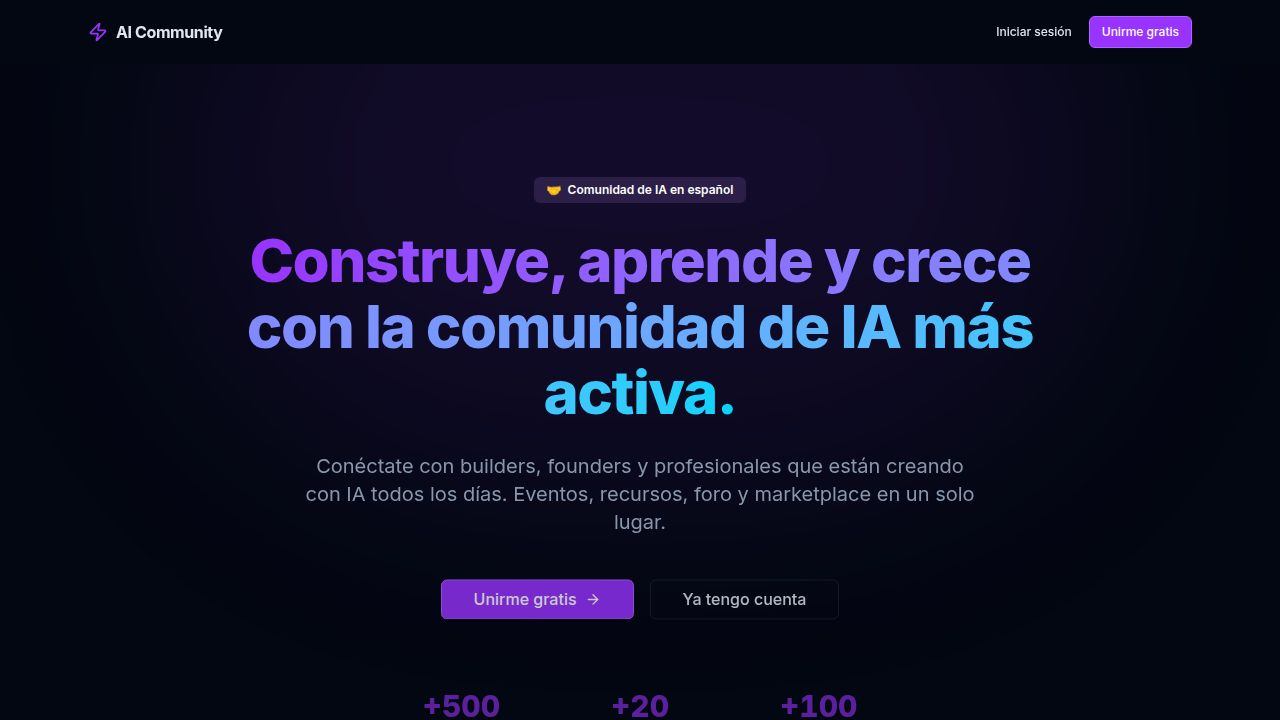
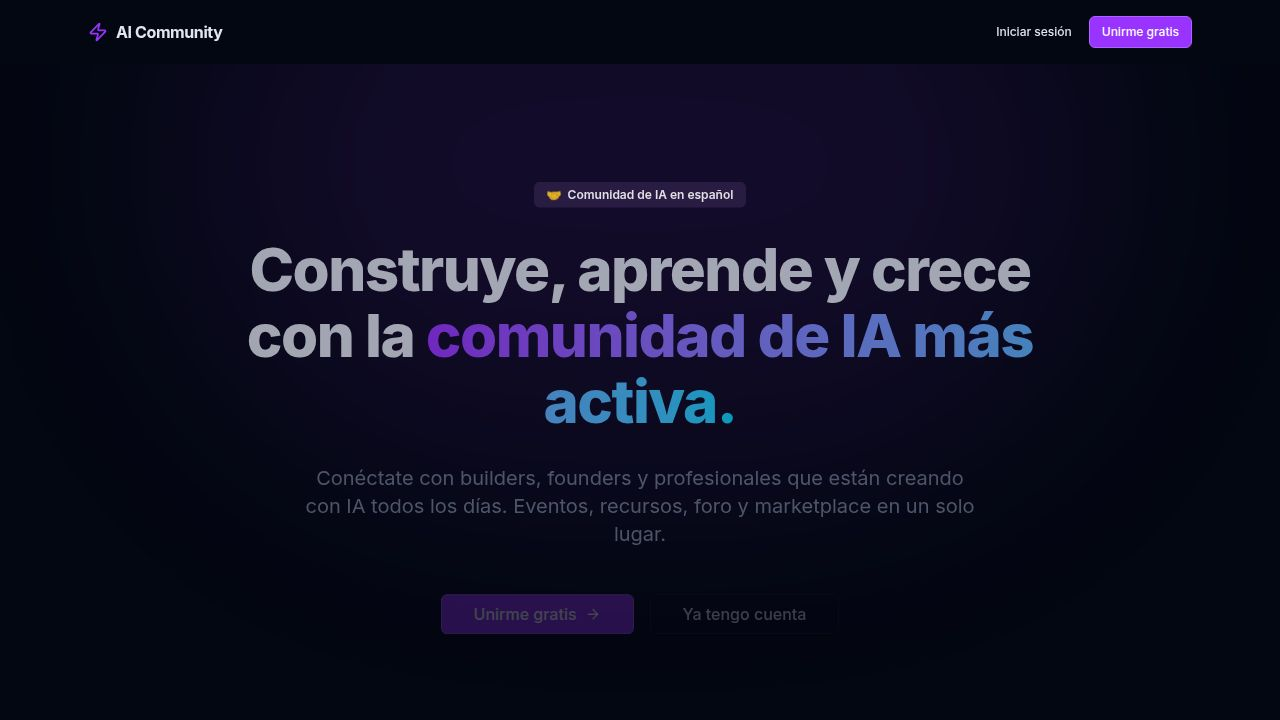
feat: live role-update via SSE so admins see sidebar change without logout
## Task
Implement live role-update so admins see the sidebar change without logging out.
When an admin promotes or demotes a user via /admin/users, the target user's
sidebar "Admin" item now appears/disappears immediately without a page reload
or logout.

## Implementation

### Server (artifacts/api-server/src/routes/admin.ts)
- Imported `sseClients` from `./notifications` (the existing SSE connection registry)
- Added `emitRoleChanged(clerkUserId, role)` helper that looks up any open SSE
  connections for that Clerk user ID and writes a `role_changed` SSE event with
  `{ role }` as the JSON payload
- Called `emitRoleChanged` at the end of both PATCH and PUT `/admin/users/:userId/role`
  handlers (after DB update + best-effort Clerk metadata update)

### Server (artifacts/api-server/src/routes/users.ts) — security fix
- Removed the automatic Clerk JWT → DB role sync for existing users in GET /users/me
- Previously: if clerkRole in JWT differed from DB role, the DB was overwritten —
  stale browser sessions would revert admin-managed role changes on the next refetch
- Now: DB is authoritative for existing users. Only new user creation seeds the role
  from Clerk JWT claims. Role changes go through the admin API which updates the DB
  first, then attempts to sync Clerk public metadata (best-effort; Clerk failures are
  logged but do not roll back the DB update)

### Client (artifacts/web/src/components/layout.tsx)
- Imported `getGetMeQueryKey` from `@user/api-client-react`
[…]

diff --git a/artifacts/api-server/src/routes/admin.ts b/artifacts/api-server/src/routes/admin.ts
@@ -14,6 +14,7 @@ import {
 } from "@workspace/db";
 import { requireAuth, requireAdmin } from "../lib/requireAuth";
 import { notify } from "../lib/notify";
+import { sseClients } from "./notifications";
 import { randomUUID } from "crypto";
 
 const router = Router();
@@ -115,6 +116,16 @@ router.get("/admin/users", requireAdmin, async (req, res) => {
   res.json({ users: page, nextCursor, total: page.length });
 });
 
+function emitRoleChanged(clerkUserId: string, role: string) {
+  const clients = sseClients.get(clerkUserId);
+  if (clients) {
+    const payload = JSON.stringify({ role });
+    for (const client of clients) {
+      client.write(`event: role_changed\ndata: ${payload}\n\n`);
+    }
+  }
+}
+
 // PATCH /admin/users/:id/role — update DB + Clerk publicMetadata
 router.patch("/admin/users/:userId/role", requireAdmin, async (req, res) => {
   const userId = req.params.userId as string;
@@ -147,6 +158,8 @@ router.patch("/admin/users/:userId/role", requireAdmin, async (req, res) => {
   } catch (err) {
     req.log?.warn({ err }, "Clerk updateUser metadata failed");
   }
+
+  emitRoleChanged(userId, role);
 
   res.json(updated);
 });
@@ -183,6 +196,8 @@ router.put("/admin/users/:userId/role", requireAdmin, async (req, res) => {
   } catch (err) {
     req.log?.warn({ err }, "Clerk updateUser metadata failed");
   }
+
+  emitRoleChanged(userId, role);
 
   res.json(updated);
 });

diff --git a/artifacts/api-server/src/routes/users.ts b/artifacts/api-server/src/routes/users.ts
@@ -60,6 +60,7 @@ router.get("/users/me", requireAuth, async (req, res) => {
   });
 
   if (!user) {
+    // New user: seed role from Clerk JWT metadata (set by admin bootstrap or Clerk dashboard)
     const name =
       (claims?.name as string) ||
       (claims?.email as string)?.split("@")[0] ||
@@ -76,15 +77,12 @@ router.get("/users/me", requireAuth, async (req, res) => {
         skills: [],
       })
       .returning();
-  } else if (clerkRole && clerkRole !== user.role) {
-    // Sync role from Clerk JWT → DB (e.g. after admin seed or role change)
-    [user] = await db
-      .update(usersTable)
-      .set({ role: clerkRole, updatedAt: new Date() })
-      .where(eq(usersTable.clerkId, clerkId))
-      .returning();
-    req.log.info({ clerkId, oldRole: user.role, newRole: clerkRole }, "Role synced from Clerk metadata");
   }
+  // For existing users the DB is authoritative for role.
+  // Role changes go through the admin API which updates the DB first, then attempts
+  // to sync Clerk public metadata (best-effort; Clerk failures are logged but do not
+  // roll back the DB update). We intentionally do NOT sync clerkRole → DB here so
+  // that stale session claims cannot overwrite an admin-managed role change.
 
   res.json(user);
 });

diff --git a/artifacts/web/src/components/layout.tsx b/artifacts/web/src/components/layout.tsx
@@ -8,6 +8,7 @@ import {
   useGetNotificationsUnreadCount,
   getListNotificationsQueryKey,
   getGetNotificationsUnreadCountQueryKey,
+  getGetMeQueryKey,
 } from "@workspace/api-client-react";
 import { useQueryClient } from "@tanstack/react-query";
 import { Button } from "@/components/ui/button";
@@ -72,6 +73,10 @@ function NotificationBell() {
               : undefined,
           });
         } catch { /* ignore malformed */ }
+      });
+
+      es.addEventListener("role_changed", () => {
+        qc.invalidateQueries({ queryKey: getGetMeQueryKey() });
       });
 
       es.onerror = () => {